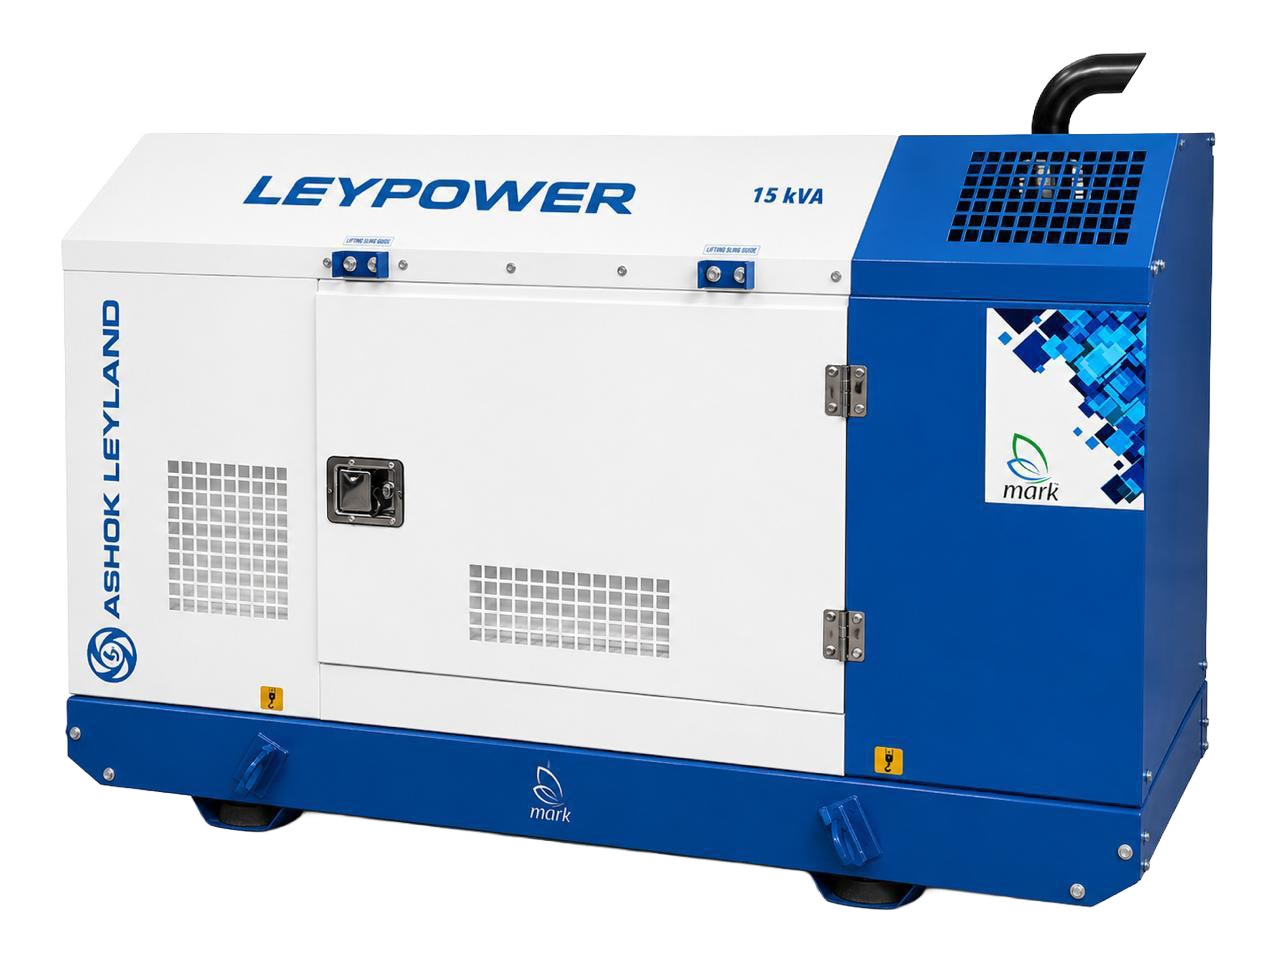
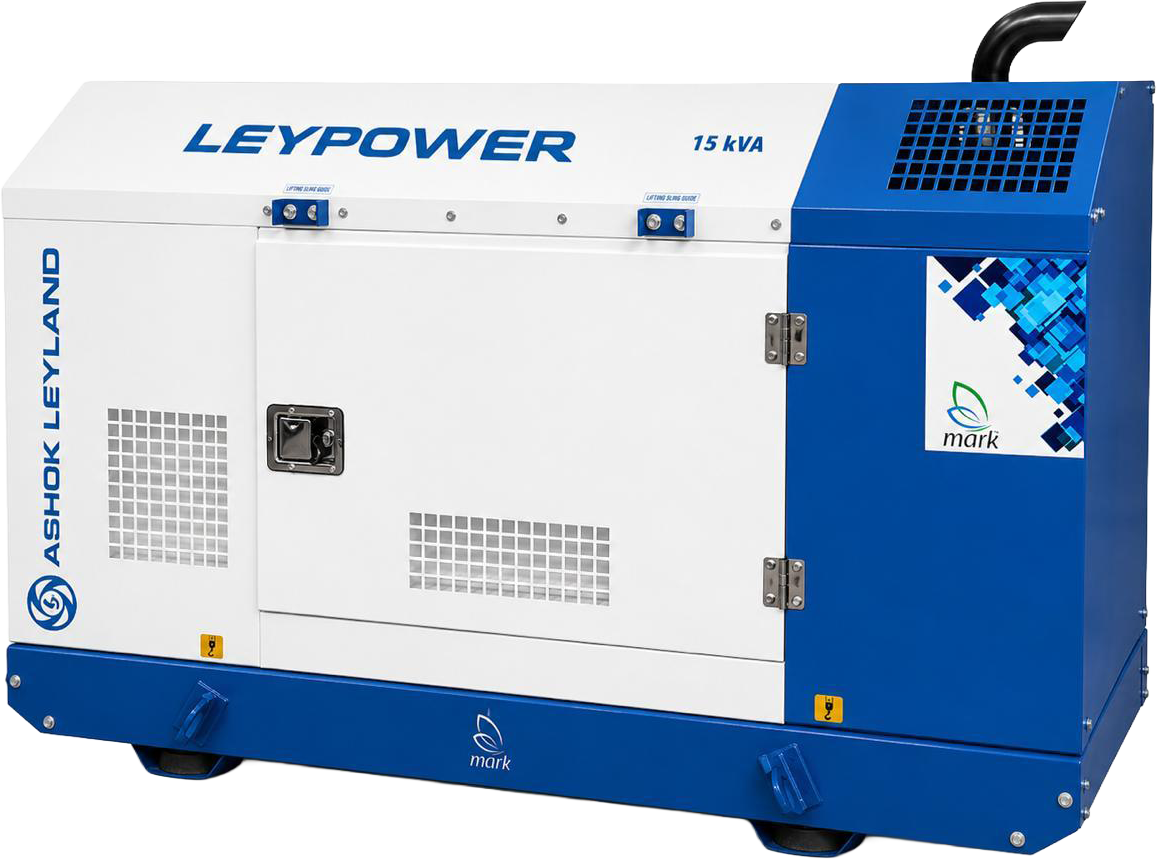
Hero: left-align copy and add floating animated genset
- Switched hero layout from centered to a two-column grid: copy is now
  left-aligned (eyebrow, headline, subhead, CTAs, stat strip) on all
  device ratios
- Added the LEYPOWER 15 kVA genset (supplied transparent cutout) as a
  floating product image on the right (below the copy on mobile)
- Continuous slow up-down loop animation on the genset, with entrance
  slide-in, soft floor glow and drop shadow
- Trimmed/optimized hero-img.png

diff --git a/components/Hero.jsx b/components/Hero.jsx
@@ -7,8 +7,7 @@ import { heroStats, company } from '@/lib/data';
 
 const ease = [0.22, 0.7, 0.3, 1];
 
-// Headline split into FIXED lines (always 3) — each line stays on one row.
-// Font scales fluidly so the longest line never overflows at any width.
+// Headline split into FIXED lines — each line is a block; words reveal in turn.
 const lines = [
   [{ t: 'Engineering' }, { t: 'reliable' }],
   [{ t: 'power' }, { t: 'for' }, { t: 'mission-critical', accent: true }],
@@ -32,23 +31,18 @@ export default function Hero() {
           fill
           priority
           sizes="100vw"
-          className="object-cover object-center opacity-50"
+          className="object-cover object-center opacity-40"
         />
       </motion.div>
 
-      {/* Center-weighted overlays */}
-      <div className="absolute inset-0 bg-gradient-to-b from-ink/85 via-ink/55 to-ink" />
-      <div
-        className="absolute inset-0"
-        style={{
-          background:
-            'radial-gradient(115% 80% at 50% 35%, transparent 30%, rgba(6,9,15,0.85) 100%)',
-        }}
-      />
-      <div className="absolute inset-0 bg-grid-fade bg-[size:64px_64px] opacity-30" />
-      <div className="pointer-events-none absolute left-1/2 top-1/3 h-[520px] w-[520px] -translate-x-1/2 rounded-full bg-accent/15 blur-[170px]" />
+      {/* Left-weighted overlays for text readability */}
+      <div className="absolute inset-0 bg-gradient-to-r from-ink via-ink/85 to-ink/60" />
+      <div className="absolute inset-0 bg-gradient-to-t from-ink via-transparent to-ink/70" />
+      <div className="absolute inset-0 bg-grid-fade bg-[size:64px_64px] opacity-25" />
+      {/* Accent glow behind the floating genset */}
+      <div className="pointer-events-none absolute right-[6%] top-1/2 hidden h-[460px] w-[560px] -translate-y-1/2 rounded-full bg-accent/15 blur-[150px] lg:block" />
 
-      {/* Intro curtain - fades away to reveal */}
+      {/* Intro curtain */}
       <motion.div
         initial={{ opacity: 1 }}
         animate={{ opacity: 0 }}
@@ -56,27 +50,27 @@ export default function Hero() {
         className="pointer-events-none absolute inset-0 z-20 bg-ink"
       />
 
-      <div className="relative z-10 flex min-h-screen items-center justify-center">
-        <div className="shell-wide w-full pt-28 pb-16 text-center">
+      <div className="shell-wide relative z-10 grid min-h-screen items-center gap-10 pt-28 pb-16 lg:grid-cols-12 lg:gap-8">
+        {/* LEFT — copy (left-aligned on all devices) */}
+        <div className="lg:col-span-6 xl:col-span-6">
           {/* Eyebrow */}
           <motion.div
             initial={{ opacity: 0, y: 14 }}
             animate={{ opacity: 1, y: 0 }}
             transition={{ duration: 0.7, delay: 0.35, ease }}
-            className="flex items-center justify-center gap-3"
+            className="flex items-center gap-3"
           >
-            <span className="h-px w-8 bg-accent/70 md:w-10" />
+            <span className="h-px w-10 bg-accent/70" />
             <span className="eyebrow text-fg-muted">
               {company.positioning} · Since 1996
             </span>
-            <span className="h-px w-8 bg-accent/70 md:w-10" />
           </motion.div>
 
-          {/* Headline - fixed 3 lines, masked word reveal */}
-          <h1 className="mt-7">
-            <span className="h-display block text-[clamp(2rem,8.2vw,2.6rem)] leading-[1.12] text-fg md:text-[clamp(1.55rem,5.4vw,4.4rem)] md:leading-[1.05]">
+          {/* Headline */}
+          <h1 className="mt-6">
+            <span className="h-display block text-[clamp(2.1rem,7.6vw,2.7rem)] leading-[1.08] text-fg lg:text-[clamp(2.4rem,3.8vw,3.7rem)] lg:leading-[1.05]">
               {lines.map((line, li) => (
-                <span key={li} className="block whitespace-normal md:whitespace-nowrap">
+                <span key={li} className="block">
                   {line.map((w, wi) => {
                     idx += 1;
                     const delay = 0.5 + idx * 0.085;
@@ -92,9 +86,7 @@ export default function Hero() {
                           animate={{ y: 0 }}
                           transition={{ duration: 0.85, delay, ease }}
                           className={`inline-block ${
-                            w.accent
-                              ? 'bg-accent-grad bg-clip-text text-transparent'
-                              : ''
+                            w.accent ? 'bg-accent-grad bg-clip-text text-transparent' : ''
                           }`}
                         >
                           {w.t}
@@ -112,7 +104,7 @@ export default function Hero() {
             initial={{ opacity: 0, y: 18 }}
             animate={{ opacity: 1, y: 0 }}
             transition={{ duration: 0.8, delay: 1.05, ease }}
-            className="mx-auto mt-7 max-w-2xl text-balance text-base leading-relaxed text-fg-muted md:text-lg"
+            className="mt-7 max-w-xl text-base leading-relaxed text-fg-muted md:text-lg"
           >
             For three decades, Mark Potentia has designed, manufactured and supported
             diesel generating systems from 15 to 250 KVA — built to original-equipment
@@ -124,7 +116,7 @@ export default function Hero() {
             initial={{ opacity: 0, y: 16 }}
             animate={{ opacity: 1, y: 0 }}
             transition={{ duration: 0.8, delay: 1.2, ease }}
-            className="mt-9 flex flex-wrap items-center justify-center gap-4"
+            className="mt-9 flex flex-wrap items-center gap-4"
           >
             <a href="#contact" className="btn-primary">
               Get a Consultation
@@ -142,11 +134,11 @@ export default function Hero() {
             initial={{ opacity: 0, y: 28 }}
             animate={{ opacity: 1, y: 0 }}
             transition={{ duration: 0.9, delay: 1.4, ease }}
-            className="mx-auto mt-16 grid max-w-3xl grid-cols-1 gap-px overflow-hidden rounded-2xl border border-line bg-line sm:grid-cols-3"
+            className="mt-12 grid max-w-xl grid-cols-3 gap-px overflow-hidden rounded-2xl border border-line bg-line"
           >
             {heroStats.map((s) => (
-              <div key={s.label} className="bg-base/70 px-6 py-6 backdrop-blur-sm">
-                <div className="h-display text-3xl text-fg md:text-4xl">
+              <div key={s.label} className="bg-base/70 px-4 py-5 backdrop-blur-sm sm:px-6">
+                <div className="h-display text-2xl text-fg sm:text-3xl">
                   {s.text ? (
                     <>
                       {s.text}
@@ -156,9 +148,35 @@ export default function Hero() {
                     <Counter to={s.value} suffix={s.suffix} />
                   )}
                 </div>
-                <div className="mt-2 text-xs text-fg-dim">{s.label}</div>
+                <div className="mt-1.5 text-[11px] leading-tight text-fg-dim">{s.label}</div>
               </div>
             ))}
+          </motion.div>
+        </div>
+
+        {/* RIGHT — floating genset */}
+        <div className="relative flex items-center justify-center lg:col-span-6">
+          <motion.div
+            initial={{ opacity: 0, x: 40 }}
+            animate={{ opacity: 1, x: 0 }}
+            transition={{ duration: 1, delay: 0.7, ease }}
+            className="relative w-full max-w-[300px] sm:max-w-[420px] lg:max-w-[560px]"
+          >
+            {/* soft floor glow */}
+            <div className="pointer-events-none absolute inset-x-6 bottom-2 h-10 rounded-[50%] bg-black/50 blur-2xl" />
+            <motion.div
+              animate={{ y: [0, -20, 0] }}
+              transition={{ duration: 4.5, repeat: Infinity, ease: 'easeInOut' }}
+            >
+              <Image
+                src="/images/products/hero-img.png"
+                alt="LEYPOWER 15 kVA Ashok Leyland diesel generator by Mark Potentia"
+                width={1157}
+                height={859}
+                priority
+                className="h-auto w-full drop-shadow-[0_30px_50px_rgba(0,0,0,0.55)]"
+              />
+            </motion.div>
           </motion.div>
         </div>
       </div>